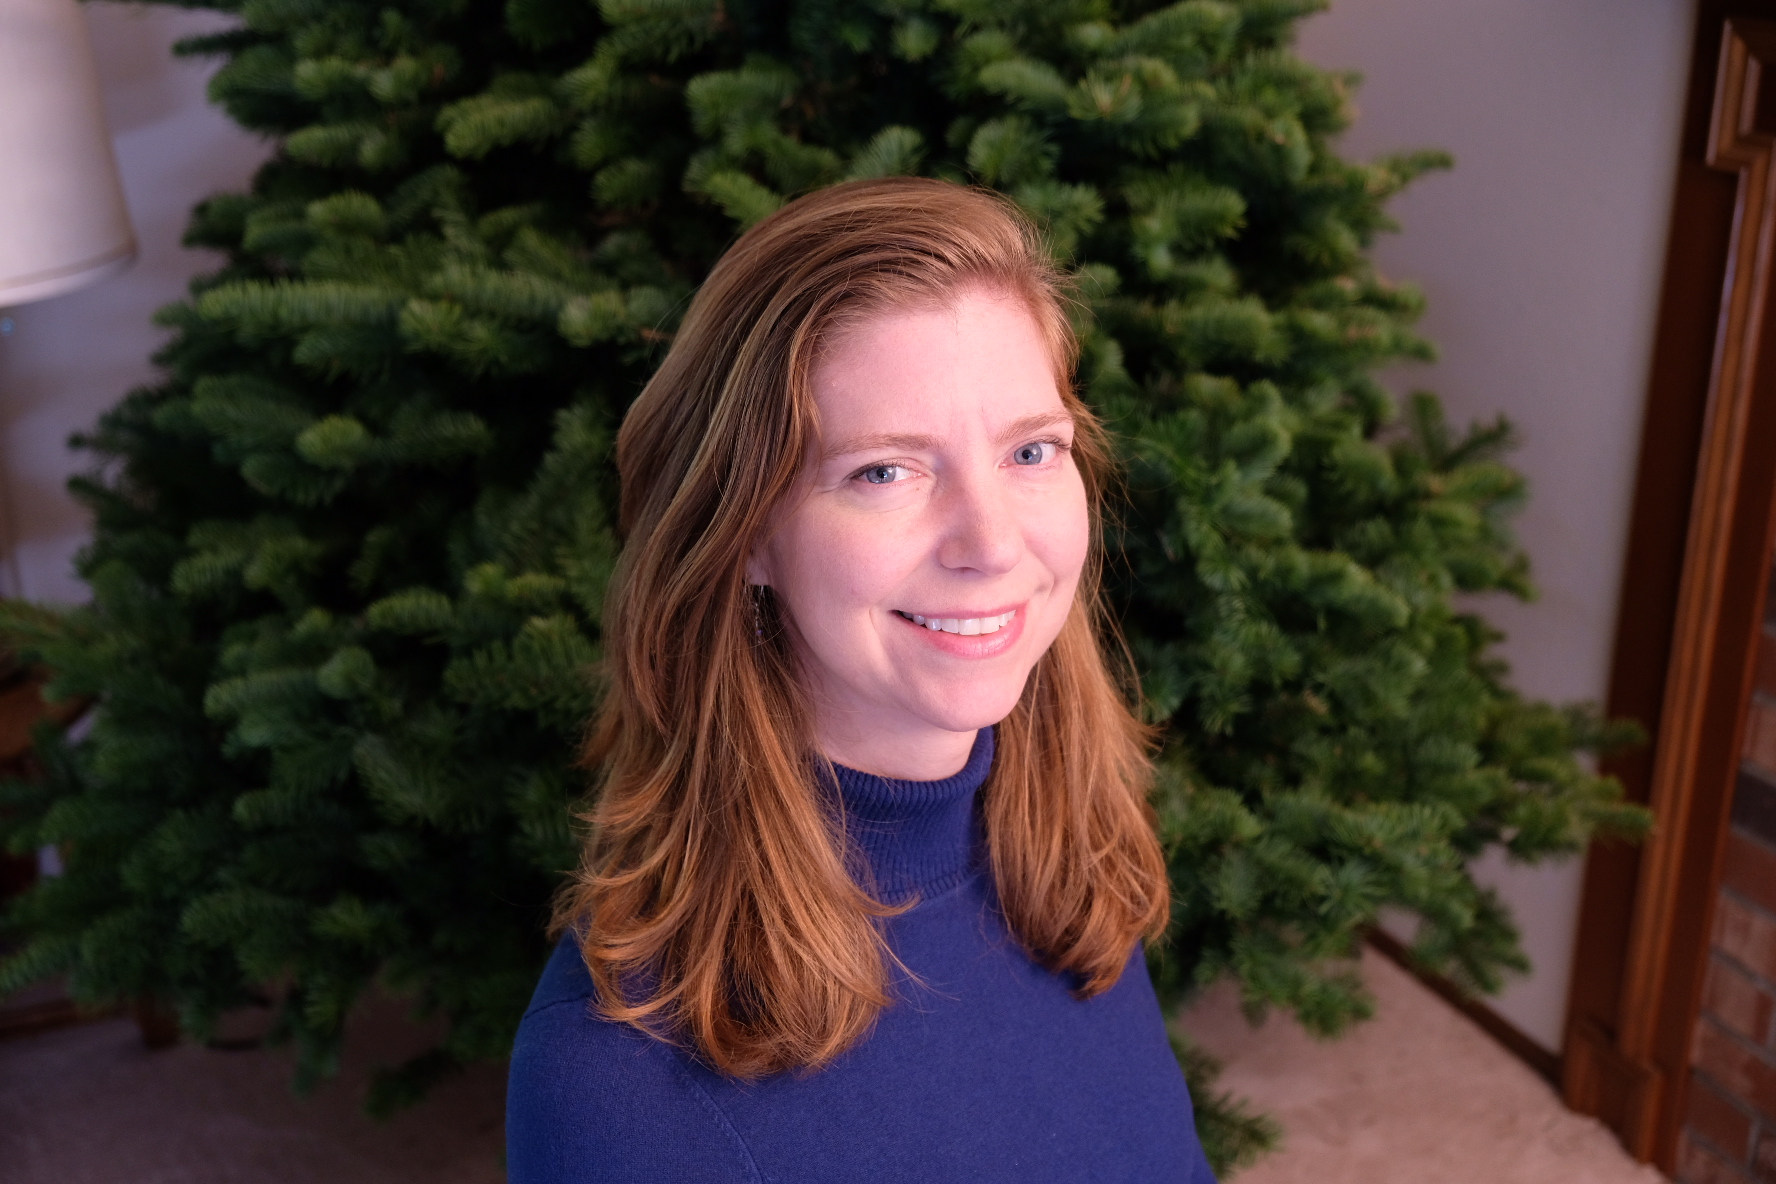
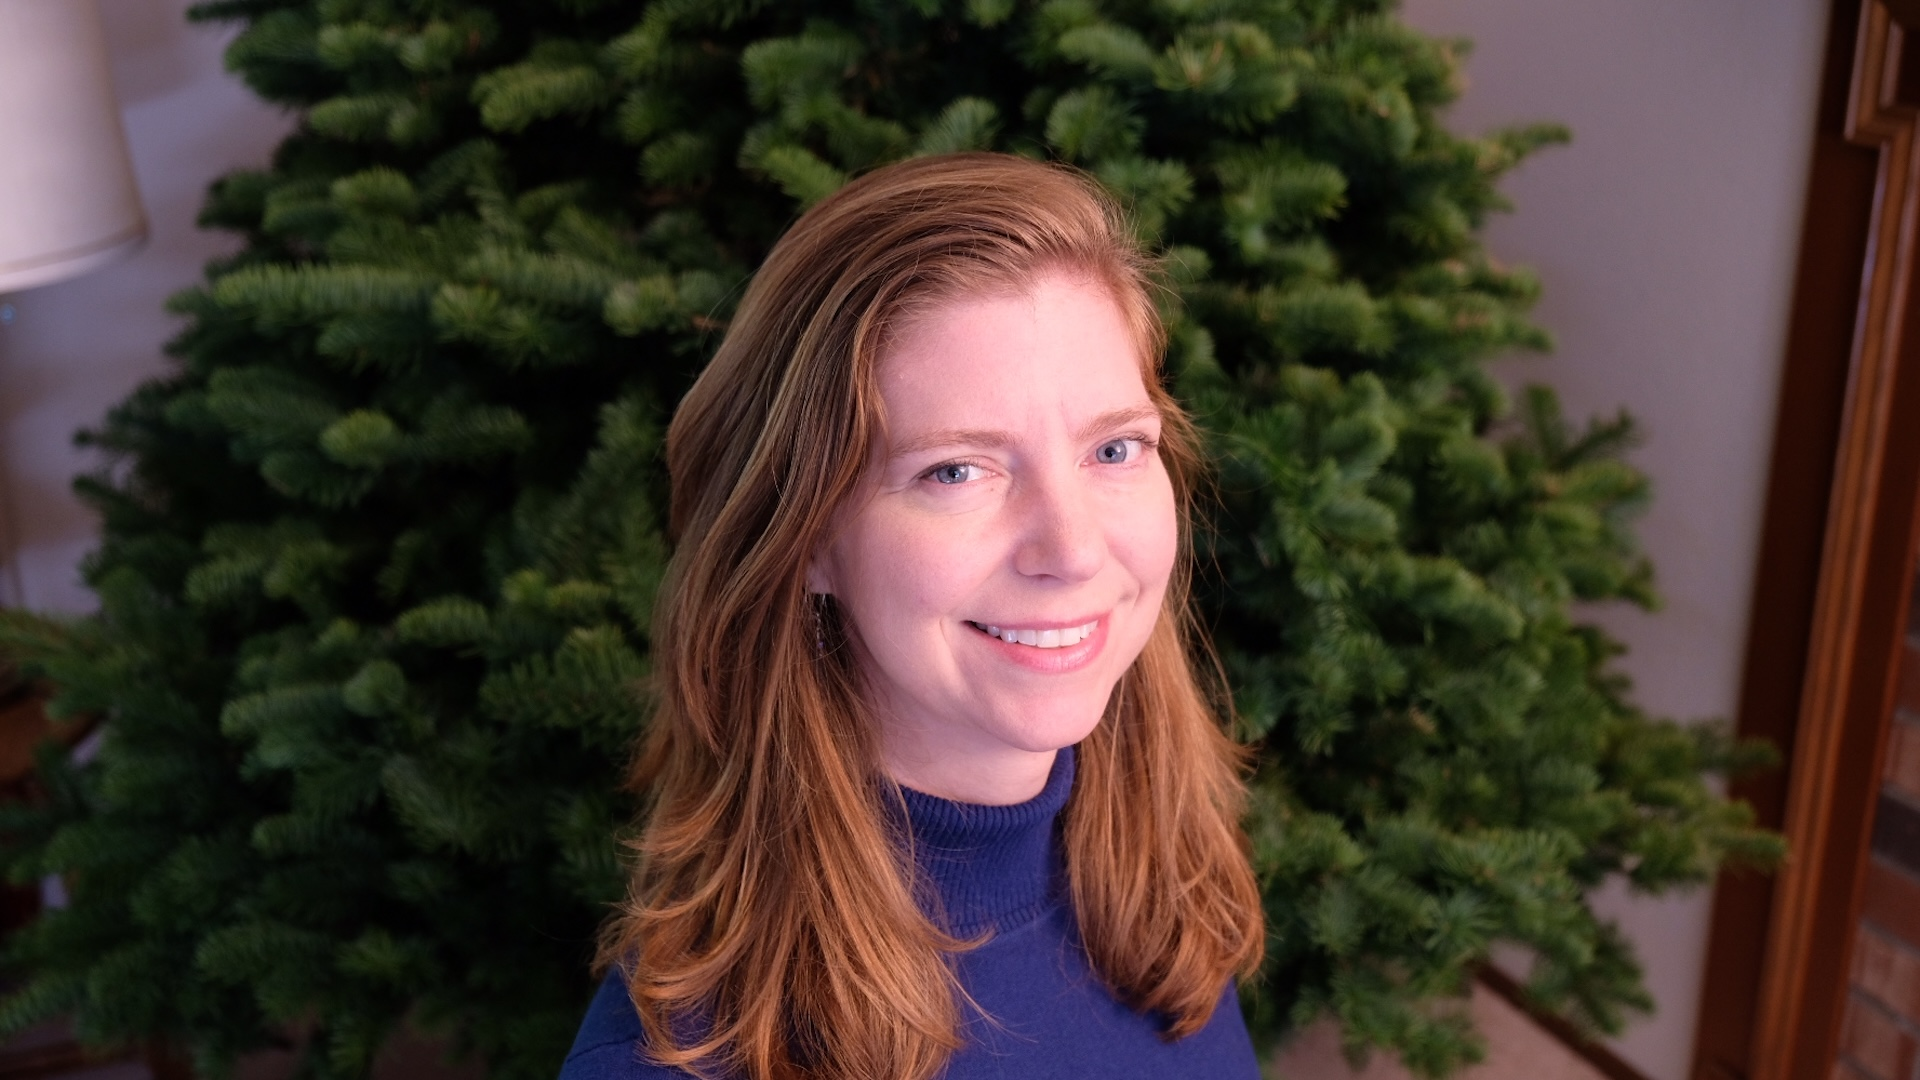
update people photos

diff --git a/img_script.m b/img_script.m
@@ -1,7 +1,7 @@
 
 % source image should be aspect ratio 1920 wide x 1080 tall
 
-name = 'Nadia';
+name = 'Kim';
 type = 'people';
 
 % rootDir = '/Users/nicksteinmetz/Dropbox/code/SteinmetzLab.github.io/';
